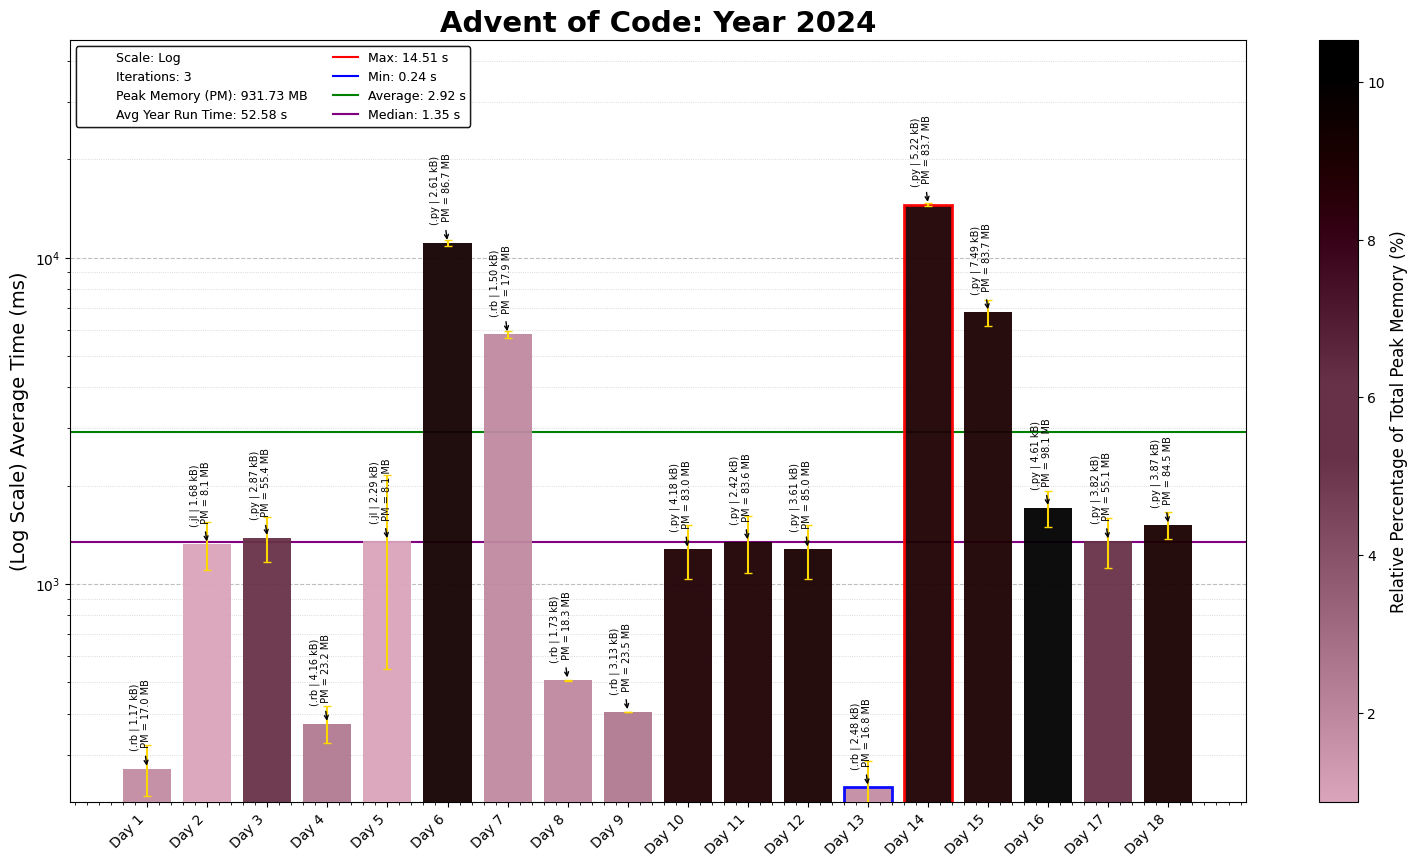
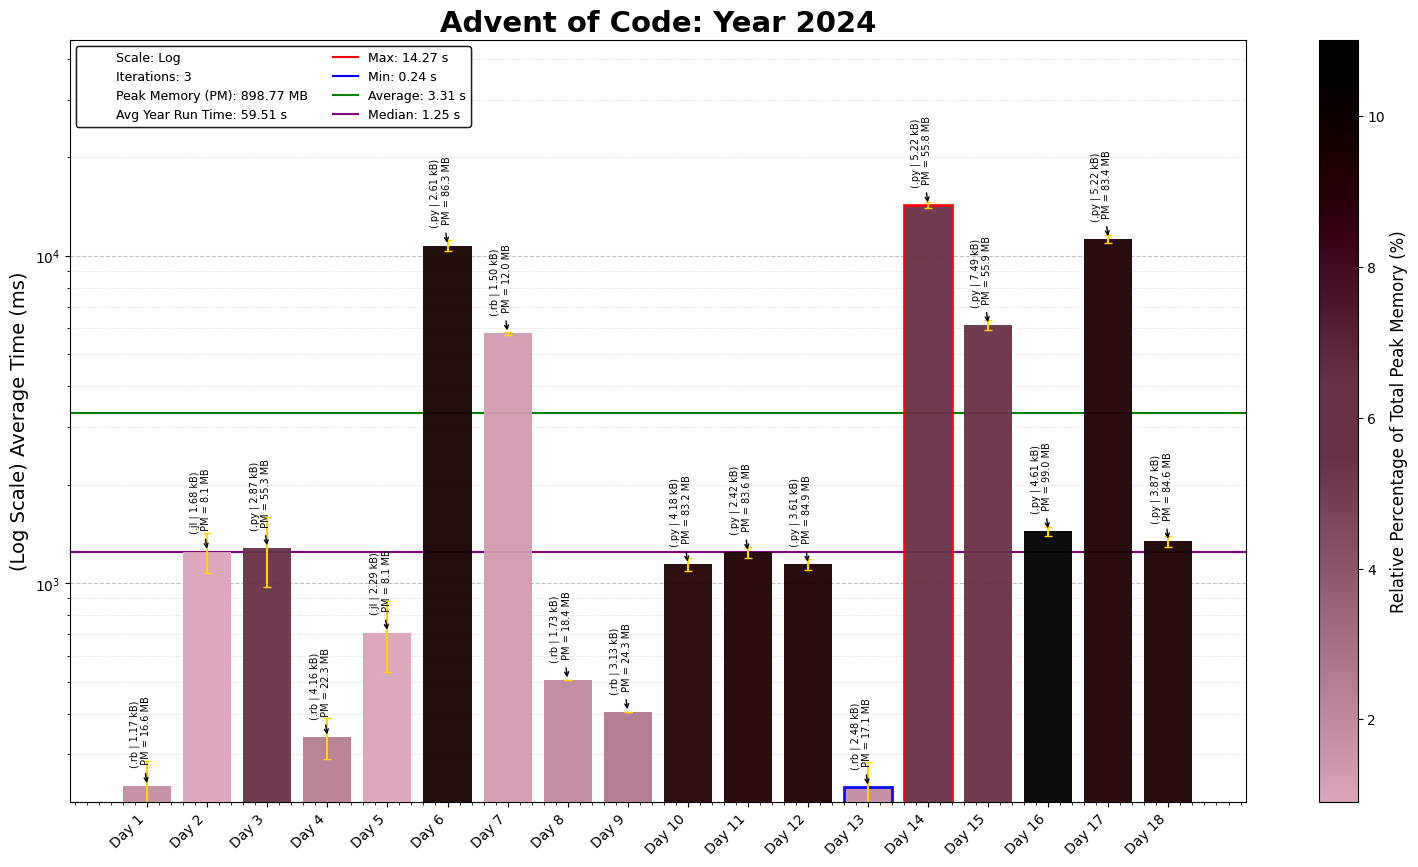
2024 day 17 P2

diff --git a/2024/17/2024Day17.py b/2024/17/2024Day17.py
@@ -7,109 +7,146 @@ Brief: [Assembly Computer]
 
 #!/usr/bin/env python3
 
-import os, re, copy
+import os, re, copy, time
 import numpy as np
 import pandas as pd
 import matplotlib.pyplot as plt
+
+start_time = time.time()
 
 # Load the input data from the specified file path
 D17_file = "Day17_input.txt"
 D17_file_path = os.path.join(os.path.dirname(os.path.abspath(__file__)), D17_file)
 
-# Read and sort input data into a grid
 with open(D17_file_path) as file:
     input_data = file.read().strip().split('\n\n')
 
-def parse_input(input_info):
-    programs = [int(num) for num in input_info[1].strip('Program: ').split(',')]
-
-    register_dict = {}
-    for register_input in input_info[0].split('\n'):
-        register_strip = register_input.strip('Register ')
-        register, value = register_strip.split(': ')
-        register_dict[register] = int(value)
-    return register_dict, programs
-
-class Chronospatial_Computer:
-    def __init__(self, registers, programs):
+class State:
+    def __init__(self, registers: dict):
         self.registers = registers
-        self.programs = programs
         self.pointer = 0
         self.output = []
 
-    def dv(self, operand, save_to='A'):  # opcode = 0 (adv), 6 (bdv), 7 (cdv)
-        numerator = self.registers['A']
-        denominator = 2 ** operand
-        divided_num = numerator // denominator
-        self.registers[save_to] = divided_num
+    def __getitem__(self, index):
+        return self.registers[index]
 
-    def bxl(self, operand):  # opcode = 1
-        # Perform XOR operation
-        self.registers['B'] = self.registers['B'] ^ operand
+    def __setitem__(self, index, value: int):
+        self.registers[index] = value
 
-    def bst(self, operand):  # opcode = 2
-        # Perform combo operand modulo operation
-        self.registers['B'] = operand % 8
+    def increment_pointer(self):
+        self.pointer += 1
 
-    def bxc(self, operand):  # opcode = 4
-        # Perform XOR operation with register B/C
-        self.registers['B'] = self.registers['B'] ^ self.registers['C']
+    def reset(self, a):
+        self.registers = {'A': a, 'B': 0, 'C': 0}
+        self.output = []
+        self.pointer = 0
 
-    def out(self, operand):  # opcode = 5
-        out_val = operand % 8
-        self.output.append(out_val)
+    def oct_to_dec(octal_str: str) -> int:
+        return int(octal_str, 8)
 
-    def get_combo_operand(self, operand):
-        combo_op = -1
-        if 0 <= operand <= 3:
-            combo_op = operand
-        elif operand == 4:
-            combo_op = self.registers['A']
-        elif operand == 5:
-            combo_op = self.registers['B']
-        elif operand == 6:
-            combo_op = self.registers['C']
-        elif operand == 7:
-            pass
-        return combo_op
+    def dec_to_oct(decimal: int) -> str:
+        return format(decimal, 'o')
 
-    def process_program(self):
-        while self.pointer < len(self.programs):
-            opcode = self.programs[self.pointer]
-            operand = self.programs[self.pointer + 1]
-            combo_op = self.get_combo_operand(operand)
+class Chronospatial_Computer():
+    def __init__(self, operand: int):
+        self.operand = operand
 
-            if opcode == 0:   # adv
-                self.dv(combo_op, 'A')
-                self.pointer += 2
-            elif opcode == 1:  # bxl
-                self.bxl(operand)
-                self.pointer += 2
-            elif opcode == 2:  # bst
-                self.bst(combo_op)
-                self.pointer += 2
-            elif opcode == 3:  # jnz (jump instruction)
-                if self.registers['A'] != 0:
-                    self.pointer = operand
-                else:
-                    self.pointer += 2
-            elif opcode == 4:  # bxc
-                self.bxc(combo_op)
-                self.pointer += 2
-            elif opcode == 5:  # out
-                self.out(combo_op)
-                self.pointer += 2
-            elif opcode == 6:  # bdv
-                self.dv(combo_op, 'B')
-                self.pointer += 2
-            elif opcode == 7:  # cdv
-                self.dv(combo_op, 'C')
-                self.pointer += 2
+    def combo_operand(self, registers: State):
+        operand_mapping = {4: 'A', 5: 'B', 6: 'C'}
+        if self.operand in operand_mapping:
+            return registers[operand_mapping[self.operand]]
+        return self.operand
 
-    def get_output(self):
-        return ','.join(map(str, self.output))
+    def adv(self, registers: State):
+        denominator = self.combo_operand(registers)
+        registers['A'] //= 2 ** denominator
+        registers.increment_pointer()
 
-registers, programs = parse_input(input_data)
-processor = Chronospatial_Computer(registers, programs)
-processor.process_program()
-print("Part 1:", processor.get_output())
+    def bxl(self, registers: State):
+        registers['B'] ^= self.operand
+        registers.increment_pointer()
+
+    def bst(self, registers: State):
+        registers['B'] = self.combo_operand(registers) % 8
+        registers.increment_pointer()
+
+    def jnz(self, registers: State):
+        if registers['A'] != 0:
+            registers.pointer = self.operand
+        else:
+            registers.increment_pointer()
+
+    def bxc(self, registers: State):
+        registers['B'] ^= registers['C']
+        registers.increment_pointer()
+
+    def out(self, registers: State):
+        registers.output.append(self.combo_operand(registers) % 8)
+        registers.increment_pointer()
+
+    def bdv(self, registers: State):
+        registers['B'] = registers['A'] // (2 ** self.combo_operand(registers))
+        registers.increment_pointer()
+
+    def cdv(self, registers: State):
+        registers['C'] = registers['A'] // (2 ** self.combo_operand(registers))
+        registers.increment_pointer()
+
+def parse_input(input_info: list) -> tuple[State, list[tuple]]:
+    registers = State({'A': 0, 'B': 0, 'C': 0})
+    instructions = []
+
+    for line in input_info[0].split('\n'):
+        register_value = int(line.rsplit(maxsplit=1)[-1])
+        if 'A' in line:
+            registers['A'] = register_value
+        elif 'B' in line:
+            registers['B'] = register_value
+        elif 'C' in line:
+            registers['C'] = register_value
+
+    program = input_info[1].split(maxsplit=1)[-1].split(',')
+    for i in range(0, len(program), 2):
+        opcode = int(program[i])
+        operand = int(program[i + 1])
+        instructions.append((opcode, operand))  # Store the opcode and operand
+
+    return registers, instructions
+
+def run_computer(registers: dict, instructions: list) -> str:
+
+    while registers.pointer < len(instructions):
+        opcode, operand = instructions[registers.pointer]
+        processor = Chronospatial_Computer(operand)  # Create a Processor instance
+        instruction_method = getattr(processor, ['adv', 'bxl', 'bst', 'jnz', 'bxc', 'out', 'bdv', 'cdv'][opcode])
+        instruction_method(registers)
+
+    return ','.join(map(str, registers.output))  # Return the output after processing all instructions
+
+def disassemble_code(registers: dict, instructions: list) -> int:
+    output_sequence = [item for instr in instructions for item in (instr[0], instr[1])]  # Adjusted to use the tuple
+
+    lower_bound = 0
+    for i in range(len(output_sequence) - 1, -1, -1):
+        for a in range(lower_bound, lower_bound + (8 ** (len(output_sequence) - i))):
+            registers.reset(a)
+            while registers.pointer < len(instructions):
+                opcode, operand = instructions[registers.pointer]
+                processor = Chronospatial_Computer(operand)  # Create a Processor instance
+                instruction_method = getattr(processor, ['adv', 'bxl', 'bst', 'jnz', 'bxc', 'out', 'bdv', 'cdv'][opcode])
+                instruction_method(registers)  # Execute the instruction
+
+            if registers.output == output_sequence[i:]:
+                if len(registers.output) == len(output_sequence):
+                    return a
+
+                lower_bound = State.oct_to_dec(State.dec_to_oct(a) + '0')
+                break
+
+registers, instructions = parse_input(input_data)
+
+print("Part 1:", run_computer(registers, instructions))
+
+print("Part 2:", disassemble_code(registers, instructions))
+
+print(time.time() - start_time)

diff --git a/2024/README_2024.md b/2024/README_2024.md
@@ -20,5 +20,5 @@ This repository contains coding solutions for the 2024 Advent of Code. Its the f
 14. **Day 14- Restroom Redoubt**: *Python* | Particle Tracking in a grid, which was fairly simple, but finding the easter egg convinced me I never looked for one
 15. **Day 15- Warehouse Woes**: *Python* | Moving elements in a grid according to a set of instructions, seems complicated but fairly manageable, once you work out a couple of edge cases. Not the most elegant solution, but definitely one of my favourite ones overall.
 16. **Day 16- Reindeer Maze**: *Python* | A* search to find minimum path in a maze, adapted a fairly standard algorithm with the cost function.
-17. **Day 17- Chronospatial Computer**: *Python* | Build an assembly computer with 8 main functions
+17. **Day 17- Chronospatial Computer**: *Python* | Build an assembly computer with 8 main functions. Create a sort of disassembler that brute forces the solution
 18. **Day 18- RAM Run**: *Python* | Path finder in a 2D grid, using BFS algorithm. Added a binary search to improve speed instead of initial brute force, resulting in a 8x speed up.
